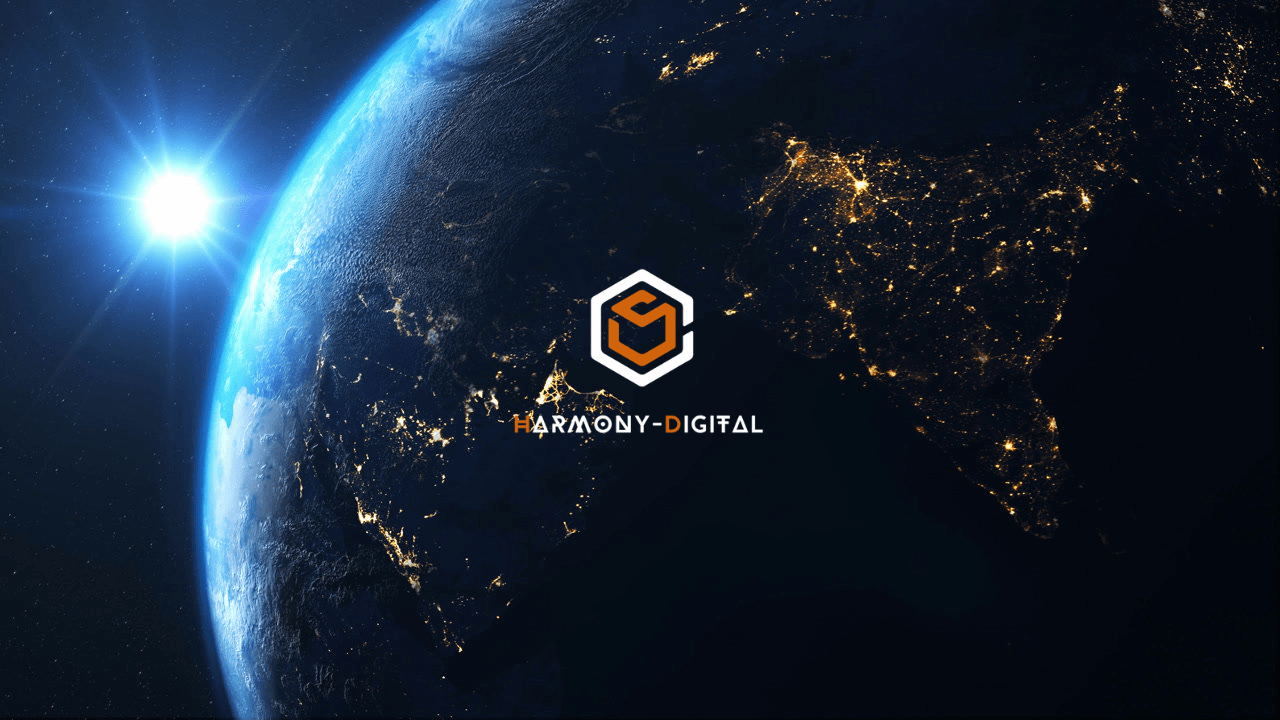
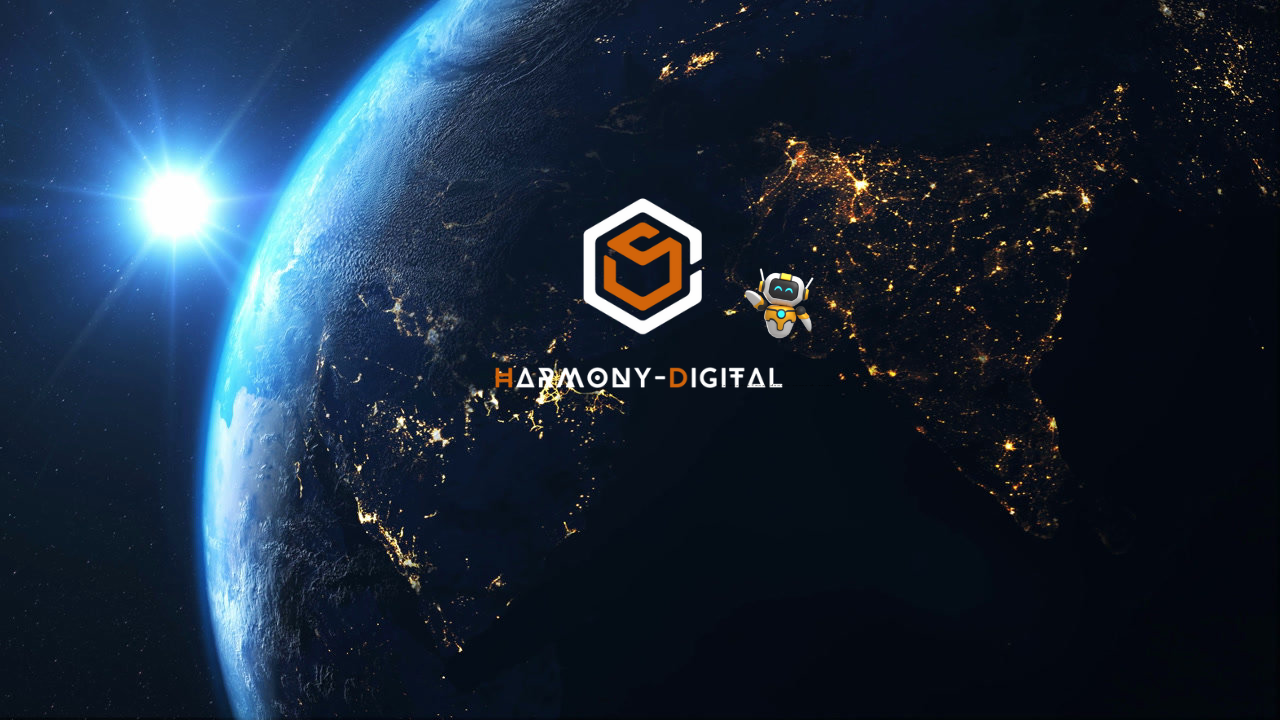
banniere à refaire

Changed region(s): [[0.375, 0.275, 0.6562, 0.55], [0.4062, 0.5806, 0.5938, 0.6111]]

diff --git a/.history/header_20241112162631.php b/.history/header_20241112162631.php
@@ -54,7 +54,11 @@
             </nav>
         </div>
 
-        <!-- <div class="banner"></div> -->
+        Bonjour Pierre,
+
+J'espère que tu n'es pas trop fatigué après le week-end. Je suis à fond sur ton site en ce moment ! Peux-tu me dire si ce que j'ai fait jusqu'à présent correspond à ce que tu recherches pour ton site ? Pour l'instant, je n'ai travaillé que sur la première page.
+
+À très vite !
 
         <div id="special-header">
             <video autoplay muted loop id="video-bg" playsinline>
@@ -62,8 +66,8 @@
                 Votre navigateur ne supporte pas la vidéo.
             </video>
             
-            <!-- <div id="logo-container">
+            <div id="logo-container">
         <img src="images/logo.png" alt="Logo" class="img-fluid">
-    </div> -->
-        <!-- </div> -->
+    </div>
+        </div>
     </header>

diff --git a/.history/header_20241112163009.php b/.history/header_20241112163009.php
@@ -54,16 +54,16 @@
             </nav>
         </div>
 
-        <!-- <div class="banner"></div> -->
+        
 
-        <div id="special-header">
-            <video autoplay muted loop id="video-bg" playsinline>
+        <!-- <div id="special-header"> -->
+            <!-- <video autoplay muted loop id="video-bg" playsinline>
                 <source src="videos/header.mp4" type="video/mp4">
                 Votre navigateur ne supporte pas la vidéo.
-            </video>
+            </video> -->
             
-            <!-- <div id="logo-container">
-        <img src="images/logo.png" alt="Logo" class="img-fluid">
-    </div> -->
-        <!-- </div> -->
+            <div id="logo-container">
+        <img src="images/banner.png" alt="Logo" class="img-fluid">
+    </div>
+        </div>
     </header>

diff --git a/.history/header_20241112162915.php b/.history/header_20241112162915.php
@@ -54,16 +54,16 @@
             </nav>
         </div>
 
-        <!-- <div class="banner"></div> -->
+        
 
         <div id="special-header">
-            <video autoplay muted loop id="video-bg" playsinline>
+            <!-- <video autoplay muted loop id="video-bg" playsinline>
                 <source src="videos/header.mp4" type="video/mp4">
                 Votre navigateur ne supporte pas la vidéo.
-            </video>
+            </video> -->
             
-            <!-- <div id="logo-container">
-        <img src="images/logo.png" alt="Logo" class="img-fluid">
-    </div> -->
-        <!-- </div> -->
+            <div id="logo-container">
+        <img src="images/banner.png" alt="Logo" class="img-fluid">
+    </div>
+        </div>
     </header>

diff --git a/.history/header_20241112163033.php b/.history/header_20241112163033.php
@@ -54,16 +54,16 @@
             </nav>
         </div>
 
-        <!-- <div class="banner"></div> -->
+        
 
         <div id="special-header">
-            <video autoplay muted loop id="video-bg" playsinline>
+            <!-- <video autoplay muted loop id="video-bg" playsinline>
                 <source src="videos/header.mp4" type="video/mp4">
                 Votre navigateur ne supporte pas la vidéo.
-            </video>
+            </video> -->
             
-            <!-- <div id="logo-container">
-        <img src="images/logo.png" alt="Logo" class="img-fluid">
-    </div> -->
-        <!-- </div> -->
+            <div id="logo-container">
+        <img src="images/banner.png" alt="Logo" class="img-fluid">
+    </div>
+        </div>
     </header>

diff --git a/.history/header_20241112162817.php b/.history/header_20241112162817.php
@@ -54,16 +54,16 @@
             </nav>
         </div>
 
-        <!-- <div class="banner"></div> -->
+        
 
         <div id="special-header">
-            <video autoplay muted loop id="video-bg" playsinline>
+            <!-- <video autoplay muted loop id="video-bg" playsinline>
                 <source src="videos/header.mp4" type="video/mp4">
                 Votre navigateur ne supporte pas la vidéo.
-            </video>
+            </video> -->
             
-            <!-- <div id="logo-container">
-        <img src="images/logo.png" alt="Logo" class="img-fluid">
-    </div> -->
-        <!-- </div> -->
+            <div id="logo-container">
+        <img src="images/baner.png" alt="Logo" class="img-fluid">
+    </div>
+        </div>
     </header>

diff --git a/.history/header_20241112162815.php b/.history/header_20241112162815.php
@@ -54,16 +54,16 @@
             </nav>
         </div>
 
-        <!-- <div class="banner"></div> -->
+        
 
         <div id="special-header">
-            <video autoplay muted loop id="video-bg" playsinline>
+            <!-- <video autoplay muted loop id="video-bg" playsinline>
                 <source src="videos/header.mp4" type="video/mp4">
                 Votre navigateur ne supporte pas la vidéo.
-            </video>
+            </video> -->
             
-            <!-- <div id="logo-container">
-        <img src="images/logo.png" alt="Logo" class="img-fluid">
-    </div> -->
-        <!-- </div> -->
+            <div id="logo-container">
+        <img src="images/.png" alt="Logo" class="img-fluid">
+    </div>
+        </div>
     </header>

diff --git a/.history/header_20241112162650.php b/.history/header_20241112162650.php
@@ -54,16 +54,16 @@
             </nav>
         </div>
 
-        <!-- <div class="banner"></div> -->
+        <div class="banner"></div>
 
         <div id="special-header">
-            <video autoplay muted loop id="video-bg" playsinline>
+            <!-- <video autoplay muted loop id="video-bg" playsinline>
                 <source src="videos/header.mp4" type="video/mp4">
                 Votre navigateur ne supporte pas la vidéo.
-            </video>
+            </video> -->
             
-            <!-- <div id="logo-container">
+            <div id="logo-container">
         <img src="images/logo.png" alt="Logo" class="img-fluid">
-    </div> -->
-        <!-- </div> -->
+    </div>
+        </div>
     </header>

diff --git a/.history/header_20241112163039.php b/.history/header_20241112163039.php
@@ -54,16 +54,16 @@
             </nav>
         </div>
 
-        <!-- <div class="banner"></div> -->
+        <div class="banner"></div>
 
         <div id="special-header">
-            <video autoplay muted loop id="video-bg" playsinline>
+            <!-- <video autoplay muted loop id="video-bg" playsinline>
                 <source src="videos/header.mp4" type="video/mp4">
                 Votre navigateur ne supporte pas la vidéo.
-            </video>
+            </video> -->
             
-            <!-- <div id="logo-container">
+            <div id="logo-container">
         <img src="images/logo.png" alt="Logo" class="img-fluid">
-    </div> -->
-        <!-- </div> -->
+    </div>
+        </div>
     </header>

diff --git a/.history/header_20241112162813.php b/.history/header_20241112162813.php
@@ -54,16 +54,16 @@
             </nav>
         </div>
 
-        <!-- <div class="banner"></div> -->
+        
 
         <div id="special-header">
-            <video autoplay muted loop id="video-bg" playsinline>
+            <!-- <video autoplay muted loop id="video-bg" playsinline>
                 <source src="videos/header.mp4" type="video/mp4">
                 Votre navigateur ne supporte pas la vidéo.
-            </video>
+            </video> -->
             
-            <!-- <div id="logo-container">
+            <div id="logo-container">
         <img src="images/logo.png" alt="Logo" class="img-fluid">
-    </div> -->
-        <!-- </div> -->
+    </div>
+        </div>
     </header>

diff --git a/.history/header_20241112163036.php b/.history/header_20241112163036.php
@@ -54,16 +54,16 @@
             </nav>
         </div>
 
-        <!-- <div class="banner"></div> -->
+        
 
         <div id="special-header">
-            <video autoplay muted loop id="video-bg" playsinline>
+            <!-- <video autoplay muted loop id="video-bg" playsinline>
                 <source src="videos/header.mp4" type="video/mp4">
                 Votre navigateur ne supporte pas la vidéo.
-            </video>
+            </video> -->
             
-            <!-- <div id="logo-container">
+            <div id="logo-container">
         <img src="images/logo.png" alt="Logo" class="img-fluid">
-    </div> -->
-        <!-- </div> -->
+    </div>
+        </div>
     </header>

diff --git a/.history/header_20241112164254.php b/.history/header_20241112164254.php
@@ -54,16 +54,16 @@
             </nav>
         </div>
 
-        <!-- <div class="banner"></div> -->
+        <div class="banner"></div>
 
-        <div id="special-header">
+        <!-- <div id="special-header">
             <video autoplay muted loop id="video-bg" playsinline>
                 <source src="videos/header.mp4" type="video/mp4">
                 Votre navigateur ne supporte pas la vidéo.
-            </video>
+            </video> -->
             
             <!-- <div id="logo-container">
         <img src="images/logo.png" alt="Logo" class="img-fluid">
     </div> -->
-        <!-- </div> -->
+        </div>
     </header>

diff --git a/.history/header_20241112162638.php b/.history/header_20241112162638.php
@@ -54,7 +54,7 @@
             </nav>
         </div>
 
-        <!-- <div class="banner"></div> -->
+        <div class="banner"></div>
 
         <div id="special-header">
             <video autoplay muted loop id="video-bg" playsinline>
@@ -62,8 +62,8 @@
                 Votre navigateur ne supporte pas la vidéo.
             </video>
             
-            <!-- <div id="logo-container">
+            <div id="logo-container">
         <img src="images/logo.png" alt="Logo" class="img-fluid">
-    </div> -->
-        <!-- </div> -->
+    </div>
+        </div>
     </header>
